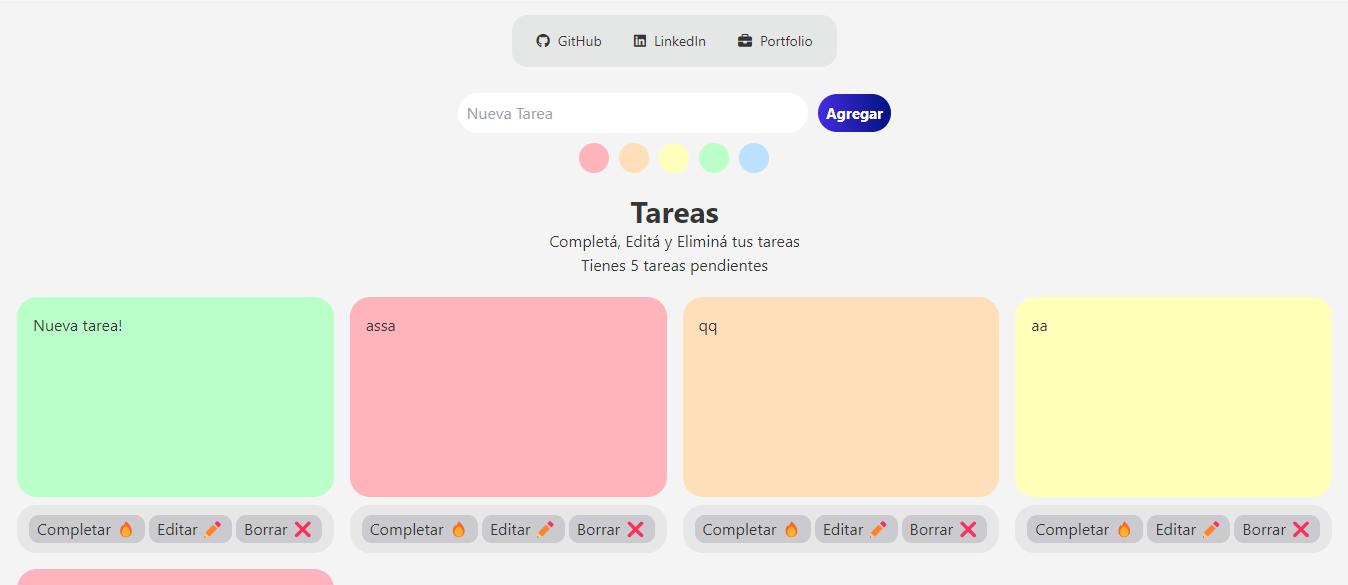
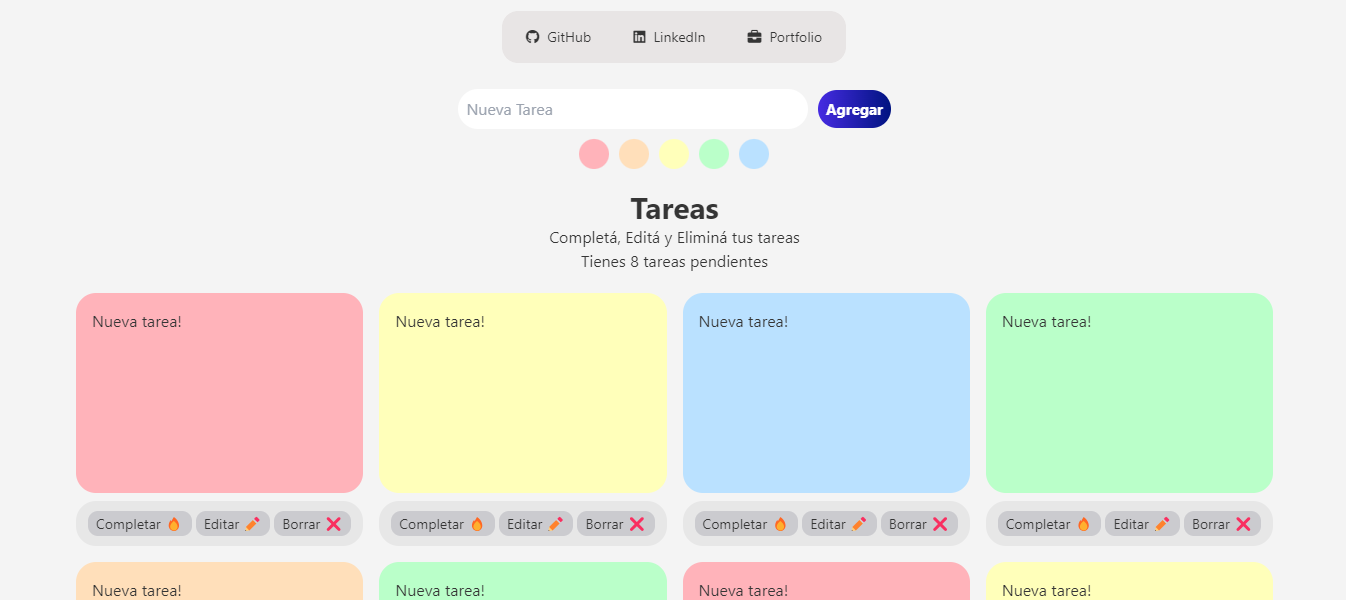
configurando cosas y agregando lógica para los usuarios (opcional a futuro)

diff --git a/src/main.js b/src/main.js
@@ -1,6 +1,13 @@
-import { TaskManager } from "./taskManager.js";
 
+import { TaskManager } from "./taskManager.js";
+import { UserManager } from "./userManager.js";
+import { validarUsername, validarEmail } from "./util.js";
+
+// declaro nuevas instancias de clases
 const taskManager = new TaskManager();
+const userManager = new UserManager();
+
+// variable para guardar el color
 let selectedColor = null;
 
 document.querySelectorAll('.color-option').forEach(option => {
@@ -11,29 +18,49 @@ document.querySelectorAll('.color-option').forEach(option => {
     });
 });
 
+// Event listeners para tasks
 document.getElementById("add-task").addEventListener('click', handleTask);
 document.getElementById("task-name").addEventListener("keydown", (e) => {
     if (e.key === "Enter") handleTask();
 });
-// document.getElementById("task-color").addEventListener('keydown', (e) => {
-//     if (e.key === "Enter") handleTask();
-// })
+
+// Event listeners para users
+// document.getElementById("add-user").addEventListener('click', handleUser);
+// document.getElementById("username").addEventListener("keydown", (e) => {
+//     if (e.key === "Enter") handleUser();
+// });
+// document.getElementById("email").addEventListener("keydown", (e) => {
+//     if (e.key === "Enter") handleUser();
+// });
 
 async function handleTask() {
-    const taskName = document.getElementById("task-name").value;
-    // const taskColor = document.getElementById("task-color").value;
-    if (taskName) {
-        await taskManager.addOrUpdateTask(taskName, selectedColor || "#ffffff");
+    const nombreTarea = document.getElementById("task-name").value;
+    if (nombreTarea) {
+        await taskManager.addOrUpdateTask(nombreTarea, selectedColor || "#ffffff");
         taskManager.renderTasks();
         document.getElementById("task-name").value = ''; // limpio el input
         selectedColor = null; // reinicio el color
-        // document.getElementById("task-color").value = '#ffffff';
         document.querySelectorAll('.color-option').forEach(option => option.classList.remove('selected'));
     }
 }
+
+// async function handleUser() {
+//     const username = document.getElementById("username").value;
+//     const email = document.getElementById("email").value;
+//     if (validarUsername(username) && validarEmail(email)) {
+//         await userManager.agregarEditarUsuarios(username, email);
+//         userManager.renderUsuarios();
+//         document.getElementById("username").value = "";
+//         document.getElementById("email").value = "";
+//     } else {
+//         alert("Por favor, ingrese un nombre de usuario y un correo electrónico válidos.");
+//     }
+// }
 
 // cargo tareas cuando la página se carga 
 window.addEventListener('DOMContentLoaded', async () => {
     await taskManager.loadTasks();
     taskManager.renderTasks();
+    // await userManager.loadUsers();
+    // userManager.renderUsuarios();
 });

diff --git a/src/userManager.js b/src/userManager.js
@@ -1,0 +1,82 @@
+export class UserManager {
+  constructor() {
+    this.usuarios = [];
+    this.editarUsuariosId = null;
+  }
+
+  async agregarEditarUsuarios(username, email) {
+    if (this.editarUsuariosId !== null) {
+      const usuario = this.usuarios.find(usuario => usuario.id === this.agregarEditarUsuarios);
+      if (usuario) {
+        usuario.username = username;
+        usuario.email = email;
+      }
+      this.editarUsuariosId = null;
+    } else {
+      const usuario = {
+        id: this.usuarios.length + 1,
+        username,
+        email
+      };
+      this.usuarios.push(usuario);
+    }
+
+    await this.guardarUsuarios();
+    this.renderUsuarios();
+  }
+
+  borrarUsuario(id) {
+    this.usuarios = this.usuarios.filter(usuario => usuario.id !== id);
+  }
+
+  editarUsuario(id) {
+    const usuario = this.usuarios.find(usuario => usuario.id === id);
+    if (usuario) {
+      document.getElementById('username').value = usuario.username;
+      document.getElementById('email').value = usuario.email;
+      this.editarUsuariosId = id;
+    }
+  }
+
+  renderUsuarios() {
+    const listaDeUsuarios = document.getElementById('users');
+    listaDeUsuarios.innerHTML = '';
+    this.usuarios.forEach(({ id, username, email }) => {
+      const itemUsuarios = document.createElement('li');
+      itemUsuarios.textContent = `Username: ${username}, Email: ${email}`;
+      
+      const botonEditar = document.createElement("button");
+      botonEditar.textContent = "Editar";
+      botonEditar.addEventListener("click", () => this.editarUsuario(id));
+
+      const botonBorrar = document.createElement("button");
+      botonBorrar.textContent = "Borrar";
+      botonBorrar.addEventListener("click", () => {
+        this.borrarUsuario(id);
+        this.renderUsuarios();
+      });
+
+      itemUsuarios.appendChild(botonEditar);
+      itemUsuarios.appendChild(botonBorrar);
+      listaDeUsuarios.appendChild(itemUsuarios);
+    });
+  }
+
+  async guardarUsuarios() {
+    return new Promise((resolve) => {
+      setTimeout(() => {
+        console.log("Users saved");
+        resolve();
+      }, 500);
+    });
+  }
+
+  async cargarUsuarios() {
+    return new Promise((resolve) => {
+      setTimeout(() => {
+        console.log("Users loaded");
+        resolve(this.usuarios);
+      }, 500);
+    });
+  }
+}

diff --git a/style.css b/style.css
@@ -1,3 +1,11 @@
+html {
+    color-scheme: light!important;
+}
+
+:root{
+    color-scheme: light!important;
+}
+
 body {
     font-family: system-ui;
     margin: 0;
@@ -10,14 +18,26 @@ body {
 }
 
 header {
+    position: fixed;
     display: flex;
     align-items: center;
     justify-content: center;
+    width: 100%;
+}
+
+header ul {
+    background: #dad3d375;
+    backdrop-filter: blur(5px);
+    gap: 10px;
+}
+
+header ul >li>a:hover{
+    background: #ffffff7c!important;
 }
 
 main {
     flex: 1;
-    padding: 1em;
+    padding: 5em 1em;
 }
 
 button {
@@ -113,6 +133,7 @@ button {
 }
 
 .container-buttons-task {
+    text-align: center;
     border-radius: 20px;
     padding: 10px;
     background-color: #e7e7e7;
@@ -123,6 +144,7 @@ button {
     background-color: #cbcbcf;
     padding: 2px 8px;
     margin: 0 2px;
+    font-size: 14px;
 }
 
 .container-buttons-task>button:hover {
@@ -156,10 +178,14 @@ button {
         /* 2 columnas en tablets */
     }
 
-        #task-input,
-        #color-picker{
-            width: auto;
-        }
+    #task-input,
+    #color-picker{
+        width: auto;
+    }
+
+    .container-buttons-task>button {
+        margin: 5px;
+    }
 }
 
 @media (max-width: 480px) {
@@ -185,9 +211,5 @@ button {
 
     .container-buttons-task {
         text-align: center;
-    }
-
-    .container-buttons-task>button {
-        margin: 5px;
     }
 }

diff --git a/src/taskManager.js b/src/taskManager.js
@@ -6,12 +6,13 @@ export class TaskManager {
         this.edicionTaskId = null; // para ver si se está editando
     }
 
-    async addOrUpdateTask(name, color) {
+    async addOrUpdateTask(name, color, userId) {
         if (this.edicionTaskId !== null) {
             const task = this.tasks.find(task => task.id === this.edicionTaskId);
             if (task) {
                 task.name = name;
                 task.color = color;
+                task.userId = userId;
             }
             this.edicionTaskId = null;
         } else {
@@ -19,7 +20,8 @@ export class TaskManager {
                 id: this.tasks.length + 1,
                 name,
                 color: color || '#ffffff',
-                completed: false
+                completed: false,
+                userId
             };
             this.tasks.push(task);
         }
@@ -42,7 +44,6 @@ export class TaskManager {
         const task = this.tasks.find(task => task.id === id);
         if (task) {
             document.getElementById('task-name').value = task.name;
-            // document.getElementById('task-color').value = task.color;
             this.edicionTaskId = id;
         }
     }

diff --git a/index.html b/index.html
@@ -16,7 +16,7 @@
 
 <body>
   <header>
-    <ul class="menu menu-horizontal bg-base-300 rounded-box mt-3">
+    <ul class="menu menu-horizontal rounded-box mt-3">
       <li>
         <a href="https://github.com/pblnahu1" rel="noopener noreferrer" class="" data-tip="GitHub" target="_blank">
           <i class="fa-brands fa-github"></i> GitHub
@@ -58,6 +58,17 @@
       </div>
       <ul id="tasks"></ul>
     </section>
+
+    <!--<section id="user-input">
+      <input type="text" id="username" placeholder="Nombre de Usuario">
+      <input type="email" id="email" placeholder="Email">
+      <button id="add-user">Agregar Usuario</button>
+    </section>
+    
+    <section id="user-list">
+      <h2>Usuarios</h2>
+      <ul id="users"></ul>
+    </section>-->
   </main>
 
   <script type="module" src="./src/main.js" defer></script>

diff --git a/src/util.js b/src/util.js
@@ -1,0 +1,9 @@
+// Funciones auxiliares para operaciones comunes
+export function validarUsername(username) {
+    return username && username.length > 2;
+}
+
+export function validarEmail(email) {
+    const re = /^[^\s@]+@[^\s@]+\.[^\s@]+$/;
+    return re.test(email);
+}

diff --git a/README.md b/README.md
@@ -1,6 +1,6 @@
 # Proyecto: Gestión de Tareas y Progreso
 
-![alt text](<img src="src/img/screen.png">)
+<img src="src/img/screen.png">
 
 ## Descripción:
 Crear una aplicación web para gestionar tareas personales o de equipo, donde puedas crear, editar, eliminar, y marcar tareas como completadas. Además, la aplicación permitirá visualizar el progreso general en un dashboard y gestionar usuarios para asignarles tareas.
@@ -36,8 +36,8 @@ Crear una aplicación web para gestionar tareas personales o de equipo, donde pu
 
 ## Módulos: 
 - taskManager.js: Módulo para la lógica de gestión de tareas.
-- userManager.js: Módulo para la lógica de gestión de usuarios.
-- utils.js: Funciones auxiliares para operaciones comunes.
+- userManager.js: Módulo para la lógica de gestión de usuarios. (opcional)
+- utils.js: Funciones auxiliares para operaciones comunes. (opcional)
 - main.js: Entrada principal de la aplicación, donde se inicializan los eventos y la lógica.
 
 ## Stack
@@ -52,4 +52,4 @@ Crear una aplicación web para gestionar tareas personales o de equipo, donde pu
 - Implementar la funcionalidad de eventos y manipulación del DOM.
 - Utilizar promesas y async/await para simular operaciones asíncronas.
 - Dividir la lógica en módulos y utilizar imports/exports.
-- Estilizar la aplicación con CSS.
+- Estilizar la aplicación con CSS o TailwindCSS/DaisyUI.
